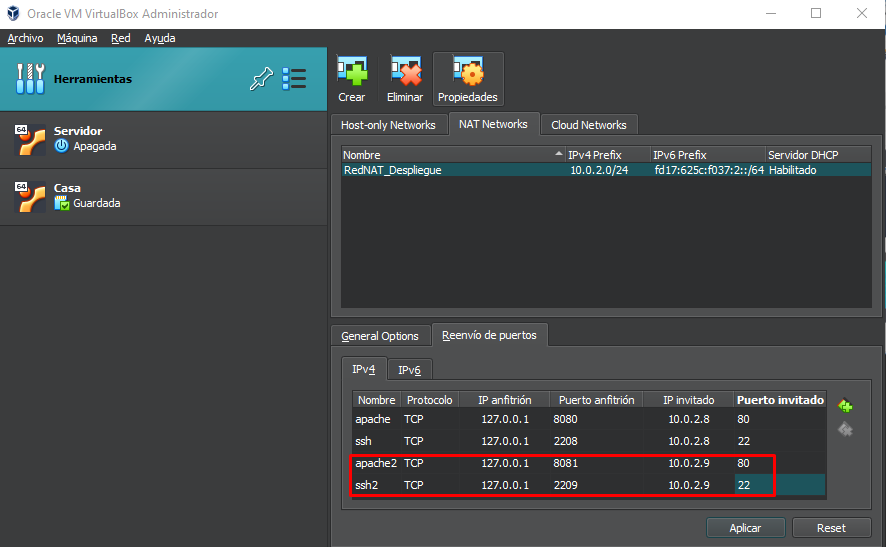
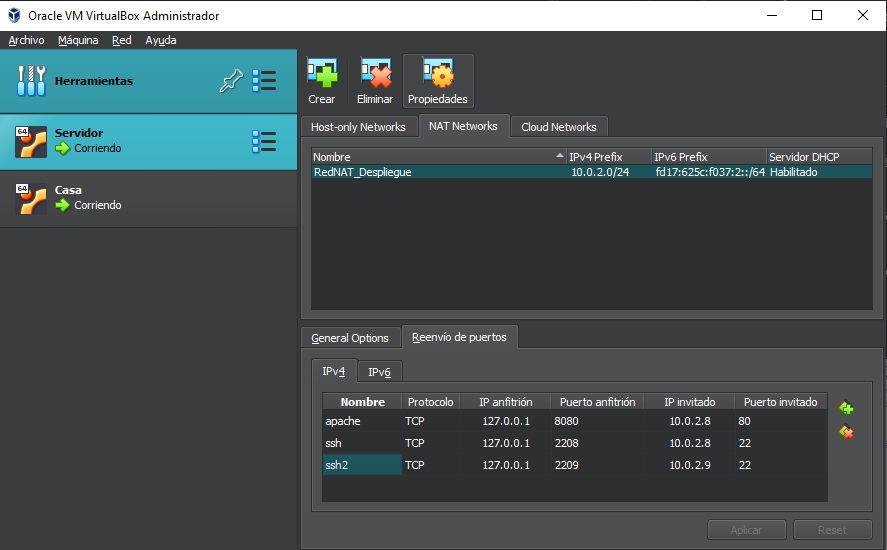
Actualizo Tarea01.md con todo el avance del Viernes

diff --git a/Tarea01.md b/Tarea01.md
@@ -1,3 +1,5 @@
+AL ACABAR LA TAREA RENOMBRAR LAS IMÁGENES DEPENDIENDO DEL APARTADO
+
 # Tarea 01 · Despliegue de Aplicaciones Web
 ___
 ## Oliver Fabian Stetcu Stepanov
@@ -138,13 +140,6 @@ Añade la regla en el cortafuegos para ``ssh``.
 
 >Recuerda usar systemctl.
 
-Iniciamos nuestro Servidor y ejecutamos los siguientes comandos para instalar nuestro servidor Apache:
-
-```bash
-sudo apt update
-sudo apt install apache2
-```
-
 Y para instalar el SSH:
 
 ```bash
@@ -155,7 +150,6 @@ Comprobamos que tenemos Apache instalado y SSH (nos aparece la lista por lo tant
 
 ```bash
 sudo ufw app list
-sudo ufw allow Apache
 sudo ufw allow ssh
 ```
 
@@ -183,6 +177,7 @@ Resultado:
 ![UFW Activo](./img/v22_vbx.png)    
 
 Comprobamos que el servicio de **ssh** está activo y en funcionamiento (nos aparece que está activo porque lo hemos instalado anteriormente con ```"sudo apt install openssh-server"```):
+
 ```bash
 systemctl status ssh
 ```
@@ -291,9 +286,151 @@ Nos desconectamos del **Servidor** con el siguiente comando:
 ```bash
 exit
 ```
+
 ![Nos salimos del Servidor](./img/v30_vbx.png)
 
 ### Conexión mediante claves asimétricas.
+Equipo **Casa**:
 
+Crea un par de claves con el protocolo ``ed25519`` y con el nombre ``claves_trabajo``.
+
+Exporta la clave al **Servidor**.
+
+Conéctate desde Casa a Servidor mediante la clave ``clave_trabajo``.
+
+Para comprobar que estás en el servidor, crea un archivo de texto llamado ``claves.txt``.
+
+Desconéctate del servidor.
+
+>Recuerda usar ssh-keygen y ssh-add-id.
+
+Para ello, vamos a nuestra MV de **Casa** y ejecutamos los siguientes comandos para generar una clave con el protocolo **ed25519** y de nombre **clave_trabajo**:
+
+```bash
+cd .ssh
+ssh-keygen -t ed25519
+ls -la
+```
+
+![Generar clave con protocolo ed25519 con nombre "clave_trabajo"](./img/v31_vbx.png)
+
+Ahora vamos a exportar la clave a nuestro **Servidor** con el siguiente comando:
+
+```bash
+ssh-copy-id -i clave_trabajo.pub -p 22 sergio@10.0.2.8
+```
+
+![Exportar la clave pública al Servidor](./img/v32_vbx.png)
+
+Nos conectamos desde **Casa** al **Servidor** mediante la clave **clave_trabajo** con el siguiente comando:
+
+```bash
+ssh -p 22 -i clave_trabajo sergio@10.0.2.8
+```
+
+![Conectar desde Casa a Servidor mediante la clave "clave_trabajo"](./img/v33_vbx.png)
+
+Comprobamos que estamos en el Servidor creando un archivo de texto llamado **claves.txt**:
+
+```bash
+touch claves.txt
+ls -la
+```
+
+![Comprobar que estamos en el Servidor creando un .txt](./img/v34_vbx.png)
+
+Nos desconectamos del **Servidor** con el siguiente comando:
+
+```bash
+exit
+```
+
+![Nos salimos del Servidor](./img/v35_vbx.png)
+
+### Apache
+Equipo **Casa**:
+
+Conéctate desde **Casa** a **Servidor** mediante la clave ``clave_trabajo``.
+
+Instala en el equipo **Servidor** el servicio ``apache2``.
+
+Comprueba que el servicio ``apache2`` está activo y en funcionamiento.
+
+Añade la regla en el cortafuegos para ``apache2``.
+
+Añade en VirtualBox el redireccionamiento de puertos para poder acceder desde el **equipo anfitrión** al **Servidor** con el servicio ``apache2``.
+
+Nos conectamos desde **Casa** al **Servidor** mediante la clave **clave_trabajo** con el siguiente comando:
+
+```bash
+ssh -p 22 -i clave_trabajo sergio@10.0.2.8
+```
+
+![Conectar desde Casa a Servidor mediante la clave "clave_trabajo"](./img/v33_vbx.png)
+
+Para instalar en el **Servidor** el servicio **apache2** utilizamos el siguiente comando:
+
+```bash
+sudo apt update
+sudo apt install apache2
+```
+
+![Instalar Apache](./img/v36_vbx.png)
+
+Comprobamos que el servicio de **apache2** está activo y en funcionamiento ejecutamos el siguiente comando y añadimos la regla en el cortafuegos para **Apache**:
+
+```bash
+systemctl status apache2
+```
+
+Resultado:
+
+![Apache Activo](./img/v37_vbx.png)
+
+```bash
+sudo ufw app list
+sudo ufw allow Apache
+```
+
+![Apache Activo](./img/v38_vbx.png)
+
+Ahora cerramos nuestro servidor y vamos al VirtualBox. Vamos a Herramientas > Menú Desplegable > Red > Reenvío de Puertos. Estamos en el mismo sitio donde hemos creado la Red NAT.
+Aquí le damos a **"Crear"** y creamos el reenvío de puertos para Apache y SSH. Para ello insertamos los siguientes datos (nombre, protocolo, IP anfitrión, puerto anfitrión, IP invitado y puerto invitado):
+
+En nombre le asignamos el nombre, protocolo es el mismo en los dos, el IP anfitrión sería el localhost de nuestro pc, el puerto anfitrión de Apache es 8080 (si tenemos otro servidor le asignamos el 8081 por ejemplo) y para el SSH el puerto es el 2200 (le asignamos 2208 para referenciar nuestra MV), la IP invitado es la IP que tiene nuestra MV y el puerto invitado Apache tiene el 80 y SSH tiene el 22.
+
+Le damos a **"Aplicar"**.
+
+![Reenvío de puertos con Servidor](./img/v11_vbx.png)
+
+### SCP
+Equipo **Casa**:
+
+Crea en el equipo **Casa** una página web ``index.html`` como la siguiente con tu **nombre y apellidos**.
+
+```html
+<!DOCTYPE html>
+<html lang="es">
+<head>
+ <meta charset="UTF-8">
+ <meta name="viewport" content="width=device-width, initial-scale=1.0">
+ <title>Mi primer Servidor Apache</title>
+</head>
+<body>
+ <h1>Mi primer Servidor Apache</h1>
+ <h2>NOMBRE Y APELLIDOS</h2>
+ <h2>Despliegue de aplicaciones web</h2>
+</body>
+</html>
+```
+
+Copia el archivo anterior en **Servidor**, en la carpeta ``/var/www/html``.
+
+Equipo **Anfitrión**:
+
+Desde el **equipo anfitrión** abre un navegador web y prueba que puedes acceder a la web.
+
+COPIAR DESDE CASA AL SERVIDOR A /home/sergio NOS CAMBIAMOS DE USUARIO Y PONEMOS
+sudo su Y HACEMOS EL COPY DE LA CARPETA DE /home/sergio Y AHÍ NOS CAMBIAMOS A /var/www/html Y ASÍ TIENE PERMISOS DE ROOT
 
 
